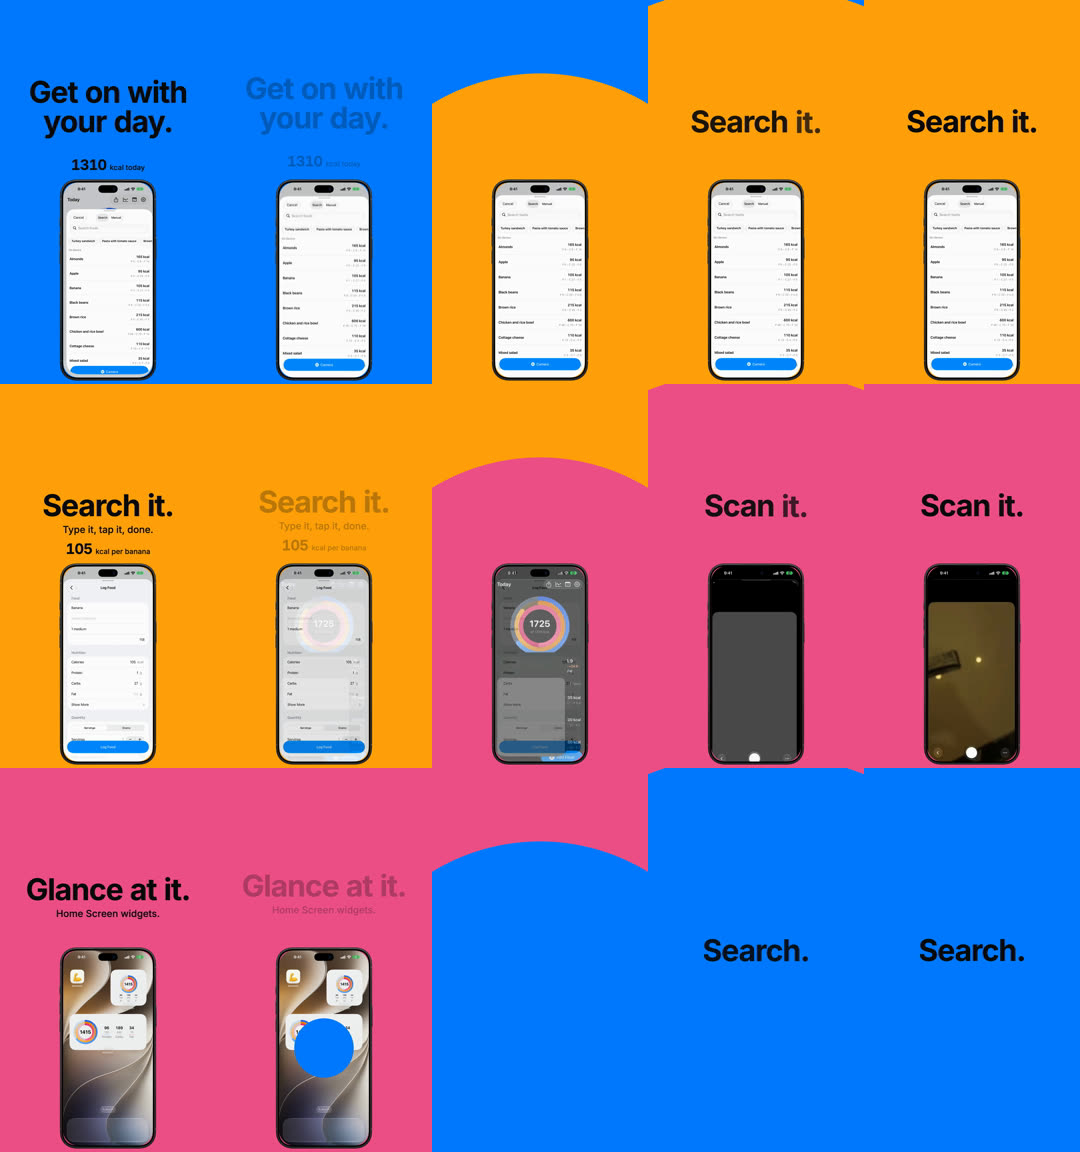
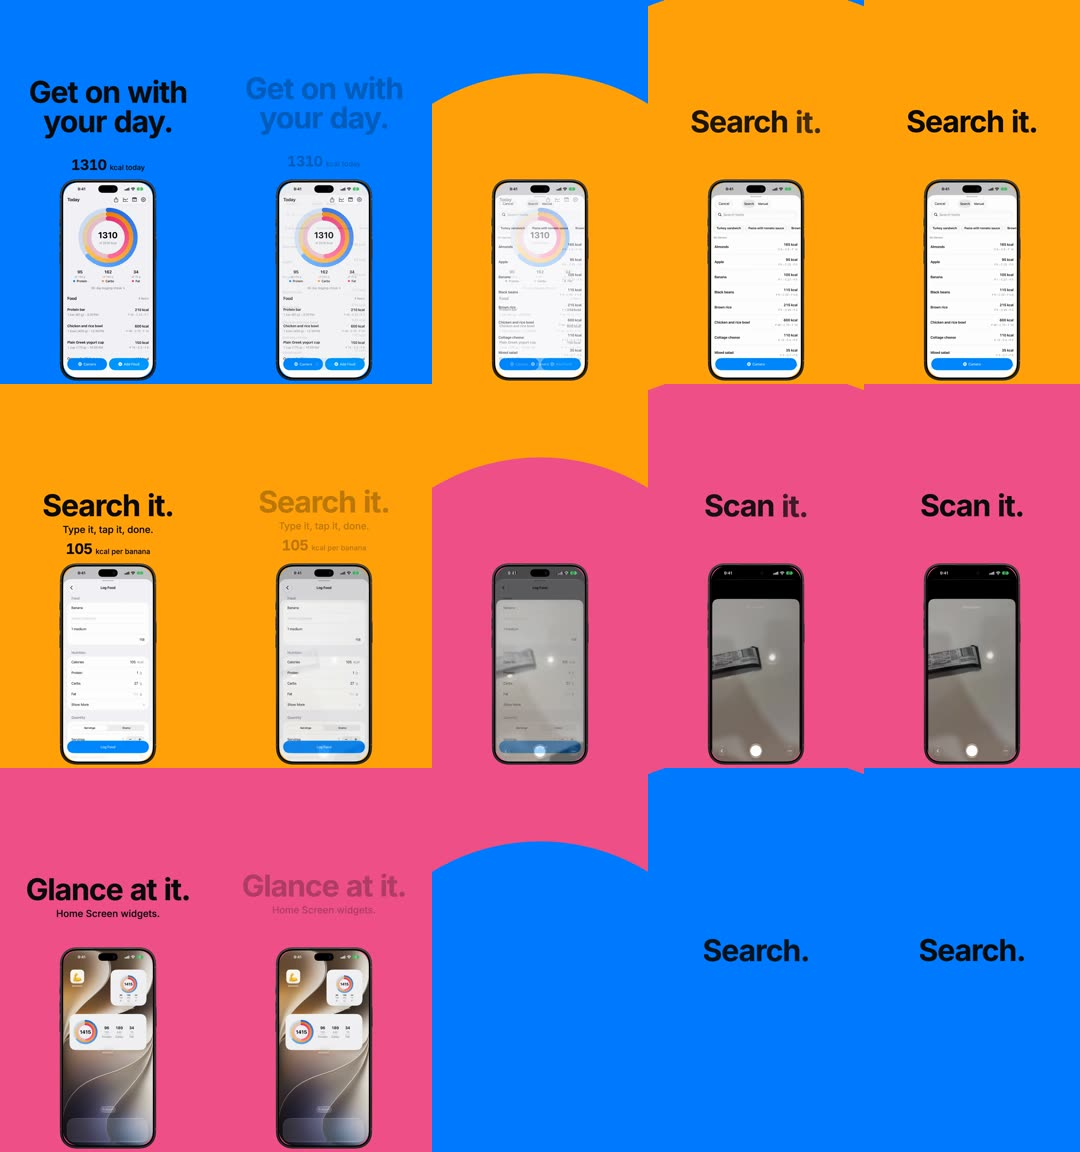
fix(trailer): keep the colour disc behind the phone and clean the hook and search cuts
Colour discs now always grow behind the phone; the phone hard-cuts out at the cut frame when the next shot has none.
The hook clip stops at 3.5 s of the take (Today only) and holds its last Today frame.
The Scan clip starts on the camera at 6.6 s, so no Today (1725 kcal) frame shows in the Search-to-Scan cross-fade.

diff --git a/tools/media/trailer/src/transitions.tsx b/tools/media/trailer/src/transitions.tsx
@@ -1,6 +1,6 @@
 import React from "react";
 import { AbsoluteFill, Easing, interpolate, useCurrentFrame } from "remotion";
-import { FPS, SHOTS, type Shot } from "./shots";
+import { FPS, SHOTS } from "./shots";
 import { STYLE } from "./styles";
 
 /** Frames a transition of `length` frames spends before its cut; it ends `length - before` frames after it. */
@@ -17,25 +17,16 @@ function colorChange(frame: number) {
   const active = cuts.find((cut) => frame >= start(cut.frame) && frame < start(cut.frame) + STYLE.colorFrames);
   if (!active) return { base: SHOTS.find((shot) => frame >= shot.start * FPS && frame < shot.end * FPS)?.color ?? SHOTS[0].color };
   const progress = ease((frame - start(active.frame)) / (STYLE.colorFrames - 1));
-  return { base: active.from.color, disc: { color: active.to.color, radius: progress * FULL_RADIUS, covers: coversPhone(active.from, active.to) } };
+  return { base: active.from.color, disc: { color: active.to.color, radius: progress * FULL_RADIUS } };
 }
-
-/** Only a move from a phone to a screen without one has to cover the phone; the phone itself never animates. */
-const coversPhone = (from: Shot, to: Shot) => from.kind === "device" && to.kind !== "device";
 
 const Disc: React.FC<{ color: string; radius: number }> = ({ color, radius }) =>
   <AbsoluteFill style={{ background: color, clipPath: `circle(${radius}px at ${x}px ${y}px)` }} />;
 
-/** The colour field. The next colour grows as a disc behind the phone, so the phone stays put. */
+/** The colour field, always behind the phone. The next colour grows as a disc from the phone's centre, so the phone stays put. */
 export const Backdrop: React.FC = () => {
   const { base, disc } = colorChange(useCurrentFrame());
-  return <AbsoluteFill style={{ background: base }}>{disc && !disc.covers && <Disc color={disc.color} radius={disc.radius} />}</AbsoluteFill>;
-};
-
-/** Drawn above the phone, only when the next shot has none: the new colour grows over it and the phone is gone behind it. */
-export const CoverDisc: React.FC = () => {
-  const { disc } = colorChange(useCurrentFrame());
-  return disc?.covers ? <Disc color={disc.color} radius={disc.radius} /> : null;
+  return <AbsoluteFill style={{ background: base }}>{disc && <Disc color={disc.color} radius={disc.radius} />}</AbsoluteFill>;
 };
 
 /** 0 to 1 over the `STYLE.screenFrames` around `cut` (a frame number). */

diff --git a/tools/media/trailer/scripts/prepare-sources.ts b/tools/media/trailer/scripts/prepare-sources.ts
@@ -34,13 +34,16 @@ mkdirSync(PUBLIC_SOURCES, { recursive: true });
 
 const flow = `${RAW_DIR}/flow-take1.mov`;
 // flow-take1: Today at 1310, Add Food, search "banana", Banana, Log, Today at 1415, then the Home Screen with the MACROS widgets.
-// Each moment appears once: the hook is Today before logging, Search stops at the Log tap, Rings starts at the dismissal.
-// The hook rests on Today for 1.6 s, then the Add Food tap and the sheet rising (2.0-4.0 s); 0.5-2.0 s is the same idle Today.
-cut(flow, "hook.mp4", [[0.5, 4.0]]);
+// Each moment appears once: the hook is Today before logging, Search stops on the Log Food form before the Log tap, Rings starts at the dismissal.
+// The hook is Today through 3.5 s of the take; the Add Food sheet rises after that. The clip stops at 3.5 s and holds its last
+// Today frame, so the 3.5 s shot stays on Today (3.0 s of footage plus the 0.5 s hold).
+cut(flow, "hook.mp4", [[0.5, 3.5]], 0.5);
 cut(flow, "search.mp4", [[4.4, 5.3], [6.3, 7.6], [11.8, 12.6], [13.0, 13.9]], 0.1);
 cut(flow, "home.mp4", [[17.6, 22.6]]);
-// Scan: camera, barcode, product card, Logged, from the original demo. It ends at 10.2 s, before the insights crossfade; the last frame rests 0.1 s to land the shot on the 0.5 s grid (4.0 s).
-scan(DEMO_VIDEO, "scan.mp4", 6.3, 10.2, 10.2, 0.1);
+// Scan: camera, barcode, product card, Logged, from the original demo. The demo still shows Today (1725 kcal) until about 6.5 s, so the
+// clip starts on the camera at 6.6 s and the Search cross-fade lands on the camera only. It ends at 10.2 s, before the insights
+// crossfade; the last frame rests 0.4 s so the shot still lasts 4.0 s on the 0.5 s grid.
+scan(DEMO_VIDEO, "scan.mp4", 6.6, 10.2, 10.2, 0.4);
 
 // v4 takes (demo data, Today trimmed to one entry first). rings-take1: Today at 350 kcal, then four foods from the Add Food recents
 // (Turkey sandwich, Chicken and rice bowl, Pasta with tomato sauce, Salmon fillet). Each segment starts as the Log Food sheet leaves and

diff --git a/tools/media/trailer/src/trailer.tsx b/tools/media/trailer/src/trailer.tsx
@@ -5,7 +5,7 @@ import { fontFamily } from "./font";
 import { Device } from "./media";
 import { SHOTS, type Shot, type Variant } from "./shots";
 import { TextBlock } from "./text";
-import { Backdrop, CoverDisc } from "./transitions";
+import { Backdrop } from "./transitions";
 
 export type Props = { variant: Variant; safeZones: boolean };
 
@@ -18,13 +18,12 @@ const SafeOverlay: React.FC = () => <AbsoluteFill style={{ pointerEvents: "none"
 const ShotView: React.FC<{ shot: Shot; variant: Variant }> = ({ shot, variant }) =>
   shot.kind === "end" ? <EndCard variant={variant} /> : <TextBlock shot={shot} />;
 
-// Back to front: colour field, phone, the colour covering the phone when the next shot has none, then every shot's text.
+// Back to front: colour field (its disc always grows behind the phone), phone, then every shot's text.
 export const Trailer: React.FC<Props> = ({ variant, safeZones }) => {
   const { fps } = useVideoConfig();
   return <AbsoluteFill style={{ backgroundColor: "#0A0A0C", fontFamily, overflow: "hidden" }}>
     <Backdrop />
     <Device />
-    <CoverDisc />
     {SHOTS.map((shot) => <Sequence key={shot.start} from={shot.start * fps} durationInFrames={(shot.end - shot.start) * fps}>
       <ShotView shot={shot} variant={variant} />
     </Sequence>)}

diff --git a/tools/media/trailer/src/media.tsx b/tools/media/trailer/src/media.tsx
@@ -28,11 +28,12 @@ const Screen: React.FC<{ shot: DeviceShot; fadesIn: boolean }> = ({ shot, fadesI
 /**
  * Apple's unmodified bezel at a fixed size and place; it never moves, fades or gets effects. Each recording cross-fades over
  * the previous one inside the screen opening: the incoming screen fades in on top of the outgoing one, which stays opaque.
+ * The phone ends at the last device shot's cut; after it only the colour disc is on screen.
  */
 export const Device: React.FC = () => {
   const s = STYLE.deviceScale;
   const width = BEZEL.w * s;
-  return <Sequence from={0} durationInFrames={lastEnd + STYLE.colorFrames - before(STYLE.colorFrames)} layout="none">
+  return <Sequence from={0} durationInFrames={lastEnd} layout="none">
     <div style={{ position: "absolute", left: (1080 - width) / 2, top: STYLE.deviceTop, width, height: BEZEL.h * s }}>
       <div style={{ position: "absolute", left: BEZEL.screenX * s, top: BEZEL.screenY * s, width: BEZEL.screenW * s, height: BEZEL.screenH * s, borderRadius: BEZEL.screenRadius * s, overflow: "hidden", background: "#000" }}>
         {deviceShots.map((shot, i) => <Screen key={shot.start} shot={shot} fadesIn={i > 0} />)}

diff --git a/docs/evidence/trailer/README.md b/docs/evidence/trailer/README.md
@@ -19,9 +19,9 @@ Raw takes (`build/marketing/trailer/sources/v4/`, 1320 x 2868 native):
 
 | Time | Shot | Source and in/out | Rate |
 | --- | --- | --- | --- |
-| 0-3.5 s | Hook | `v3/flow-take1.mov` 0.5-4.0 s (idle Today, then the Add Food tap) | 1.0x |
-| 3.5-7.5 s | Search | `v3/flow-take1.mov` 4.4-5.3, 6.3-7.6, 11.8-12.6, 13.0-13.9 s (+0.1 s hold) | 1.0x |
-| 7.5-11.5 s | Scan | `web/public/media/macros-demo.d72c87d2.mp4` 6.3-10.2 s (+0.1 s hold of the last frame), same crop and status bar strip as v3 | 1.0x |
+| 0-3.5 s | Hook | `v3/flow-take1.mov` 0.5-3.5 s (Today only), then the last Today frame held 0.5 s | 1.0x |
+| 3.5-7.5 s | Search | `v3/flow-take1.mov` 4.4-5.3, 6.3-7.6, 11.8-12.6, 13.0-13.9 s (+0.1 s hold); ends on the Log Food form, before the Log tap | 1.0x |
+| 7.5-11.5 s | Scan | `web/public/media/macros-demo.d72c87d2.mp4` 6.6-10.2 s (+0.4 s hold of the last frame), same crop and status bar strip as v3; starts on the camera | 1.0x |
 | 11.5-16.5 s | Rings | `v4/rings-take1.mov` 2.4-3.0, 6.43-7.53, 12.23-13.33, 18.13-19.23, 24.13-25.23 s | 1.0x |
 | 16.5-20.5 s | Track | `v4/insights-take1.mov` 4.2-8.2 s: Today, tap, push, rest on the top of Insights | 1.0x |
 | 20.5-24 s | Glance | `v3/flow-take1.mov` 17.6-21.1 s (clip is 5 s; first 3.5 s used) | 1.0x |
@@ -29,11 +29,13 @@ Raw takes (`build/marketing/trailer/sources/v4/`, 1320 x 2868 native):
 
 ## v5: transitions and timing
 
-- Colour change, every cut (0.5 s, 15 frames, centred on the cut): the next ring colour grows as a disc from the centre of the phone, eased cubic-bezier(0.65, 0, 0.35, 1). The disc is behind the phone between app shots, so the phone stays put. Into the type recap it is drawn over the phone, which is covered and never animated.
+- Colour change, every cut (0.5 s, 15 frames, centred on the cut): the next ring colour grows as a disc from the centre of the phone, eased cubic-bezier(0.65, 0, 0.35, 1). The disc is always behind the phone. When the next shot has no phone (type recap, end card), the phone hard-cuts out at the cut frame and the disc keeps growing full-frame behind where it was. No colour shape is ever drawn over the product screen.
 - Hook to Search is app to app (both have the phone), so it keeps the phone and cross-fades the screen instead of covering it; a cover would hide the phone and bring it back.
 - Between app shots only the recording inside the bezel cross-fades (0.3 s); the bezel is solid, same size and place. Clips rest on first/last frame around the cut, so no footage moves.
 - Text, support and counter fade out and drift up 24 px over the 0.25 s before the cut. Word stagger is 0.06 s (was 0.2 s). Counters count after their headline lands (hook counter now starts at 0.45 s).
 - Timing: hook 3.5 s ("Log your food." 0-1.5 s, "Get on with your day." 1.5-3.5 s, fully readable 1.39 s), Glance cut from 5.0 s to 3.5 s, type recap words every 0.375 s so "Done." can be read before it leaves (0.5 s). Total unchanged at 29.0 s; every cut is on the 0.5 s grid. Other shots, footage, counters and the end card are unchanged.
+- Fixes in this revision: the hook clip stops at 3.5 s of the take, before the Add Food sheet rises, and holds its last Today frame, so the 3.5 s hook stays on Today; the Search clip already ended on the Log Food form, and the 1725 kcal Today seen in the Scan cross-fade was the demo's opening frames, so the Scan clip now starts on the camera at 6.6 s. The Search-to-Scan cross-fade runs form to camera only.
+- Known: the Hook-to-Search cross-fade is unchanged (0.3 s, centred on 3.5 s), so Search fades in from 3.33 s and a faint Search sheet shows over the Today frame at 3.4 s. The hook footage itself is Today the whole time.
 - Readable (all words at 90% opacity, before the exit starts): Search, Scan, Track 89% of the shot, Rings 88%, Glance 86%; hook line 1 is 1.01 s of its 1.5 s.
 
 ## Images (4, about 0.72 MiB)
@@ -45,7 +47,7 @@ Raw takes (`build/marketing/trailer/sources/v4/`, 1320 x 2868 native):
 
 ## Checks run
 
-All three MP4s: h264, yuv420p, 1080 x 1920, 30 fps, 870 frames (counted), 29.000 s, stereo AAC 48 kHz. `bunx tsc --noEmit` and `git diff --check` pass. Contrast is unchanged (4.92, 9.62, 5.78:1); text is near-black on both colours at every transition frame, and only fades toward transparent while leaving.
+All three MP4s: h264, yuv420p, 1080 x 1920, 30 fps, 870 frames (counted), 29.000 s, stereo AAC 48 kHz. Contrast is unchanged (4.92, 9.62, 5.78:1); text is near-black on both colours at every transition frame, and only fades toward transparent while leaving. Frames for the three fixes were checked by eye on `coming-soon.mp4`.
 
 ## Not verified
 
